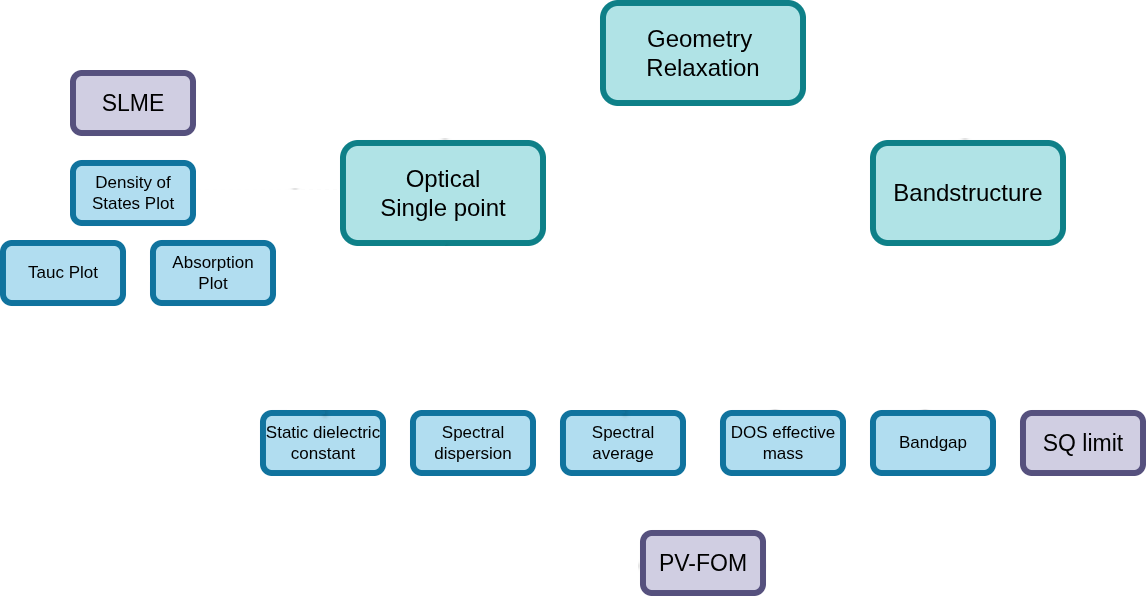
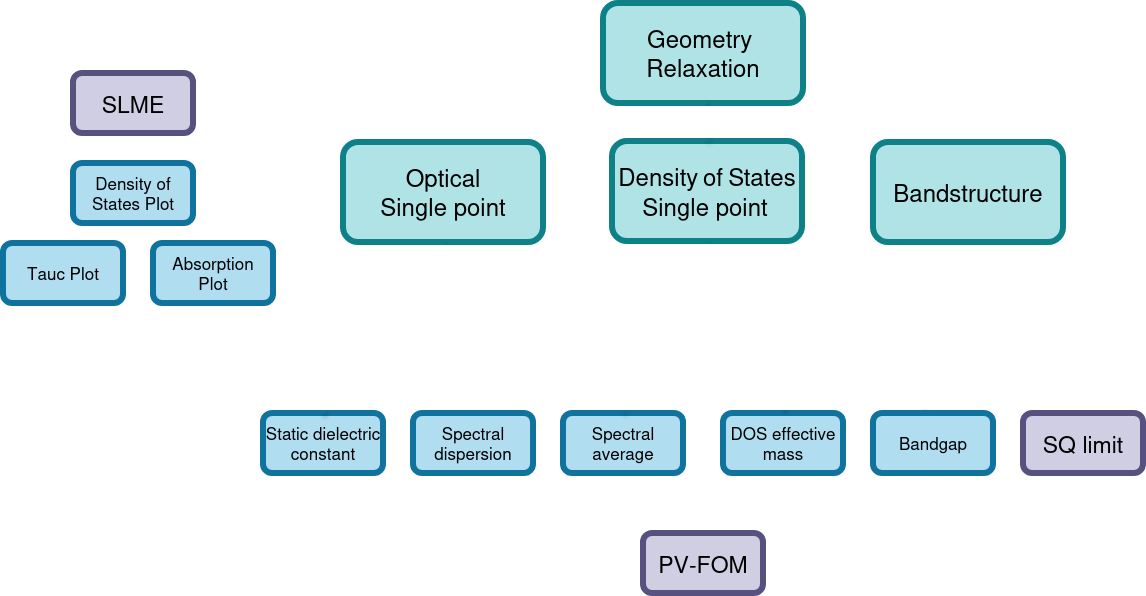
Updated Docs

diff --git a/docs/source/installation.rst b/docs/source/installation.rst
@@ -1,11 +1,13 @@
 Installation
 ============
 
+Solphin is distributed on PyPI, so it can be installed with the following command:
+
 .. code-block:: bash
 
    pip install solphin
 
-Python 3.11 or newer is required (``requires-python`` in ``pyproject.toml``).
+Python 3.11 or newer is required.
 
 To work on ``solphin`` itself, or to run the tutorial notebooks from the
 repository, install from a checkout instead:
@@ -71,4 +73,4 @@ CASTEP support
 CASTEP support needs no extra installation: the ``.bands`` and ``.cell``
 readers come with ``sumo`` and its ``castepxbin`` dependency, both installed
 with ``solphin``. Optics parsing consumes an OptaDOS ``<seed>_epsilon.dat``
-file — see the :doc:`CASTEP workflow tutorial <castep_workflow_tutorial>`.
+file — see the :doc:`CASTEP optics tutorial <castep_optics_tutorial>`.
